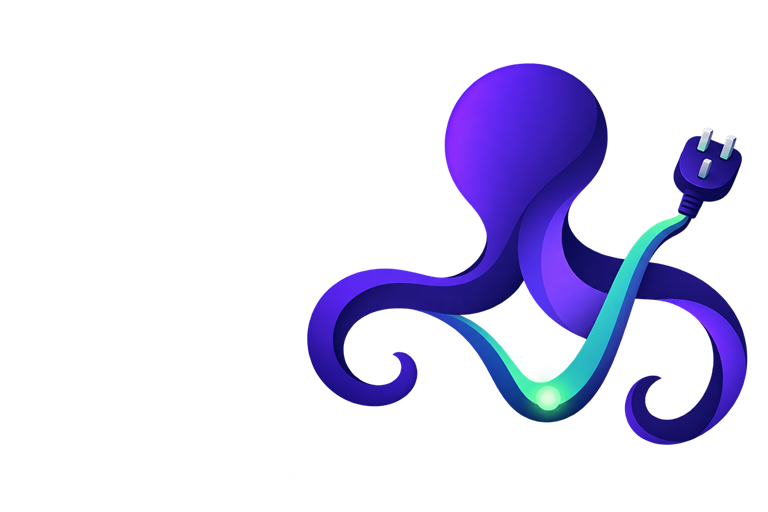
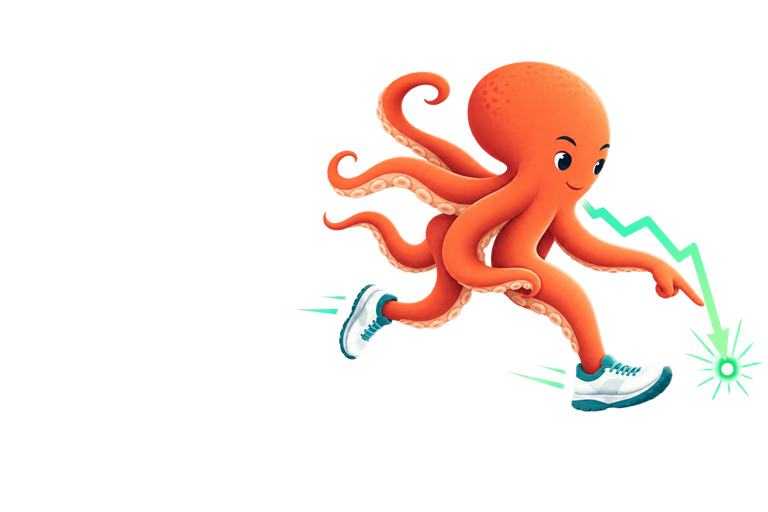
Clarify published prices and refresh mascot
Treat normal through-23:00 coverage as ready in the interface while preserving strict day completeness, and replace the abstract hero with a distinct trainer-wearing octopus.

Changed region(s): [[0.375, 0.0938, 1.0, 0.875]]

diff --git a/apps/web/src/components/PricesView.tsx b/apps/web/src/components/PricesView.tsx
@@ -56,11 +56,20 @@ export function PricesView({ overview, now, display }: PricesViewProps): JSX.Ele
     visibleConfirmedPeriods,
     windowMinutes,
   );
-  const tomorrowStatus = overview.tomorrow.complete
+  const tomorrowStatus = overview.tomorrow.ready
     ? "Tomorrow's prices are ready"
     : overview.tomorrow.periods.length > 0
-      ? "Tomorrow's prices are updating"
+      ? "Tomorrow's prices are arriving"
       : 'Prices usually update around 4pm';
+  const tomorrowCoverage = overview.tomorrow.ready
+    ? overview.tomorrow.complete
+      ? 'Full day'
+      : overview.tomorrow.coveredUntil
+        ? `To ${clock(overview.tomorrow.coveredUntil, display)}`
+        : 'Ready'
+    : overview.tomorrow.periods.length > 0
+      ? `${overview.tomorrow.periods.length} prices`
+      : 'Waiting';
 
   function toggleTool(tool: PriceTool): void {
     const nextTool = openTool === tool ? null : tool;
@@ -79,10 +88,8 @@ export function PricesView({ overview, now, display }: PricesViewProps): JSX.Ele
       <div className="card price-tools-card">
         <div className="price-availability">
           <span>{tomorrowStatus}</span>
-          <span className={`pill ${overview.tomorrow.complete ? 'ready' : 'waiting'}`}>
-            {overview.tomorrow.complete
-              ? 'Complete'
-              : `${overview.tomorrow.periods.length}/${overview.tomorrow.expectedPeriodCount}`}
+          <span className={`pill ${overview.tomorrow.ready ? 'ready' : 'waiting'}`}>
+            {tomorrowCoverage}
           </span>
         </div>
         <div className="price-tool-buttons" aria-label="Optional price tools">

diff --git a/apps/server/src/api/handler.ts b/apps/server/src/api/handler.ts
@@ -35,7 +35,6 @@ import {
   startOfLondonDay,
   userSettingsInputSchema,
   webPushSubscriptionSchema,
-  expectedPeriodCount,
   DEFAULT_ALERT_RULES,
   type PricingDate,
   type User,
@@ -137,12 +136,15 @@ function requiresSecureCookie(config: AppConfig, origin: string): boolean {
 /** Shapes one pricing day the way every price endpoint returns it. */
 async function describeDay(priceService: PriceService, date: PricingDate, tariffCode: string) {
   const periods = await priceService.storedDay(date, tariffCode);
+  const coverage = describeDayCoverage(periods, date);
   return {
     date,
     periods,
     summary: summariseDay(periods, date),
-    complete: isDayComplete(periods, date),
-    expectedPeriodCount: expectedPeriodCount(date),
+    complete: coverage.complete,
+    ready: coverage.publishable,
+    coveredUntil: coverage.coveredUntil,
+    expectedPeriodCount: coverage.expectedPeriodCount,
   };
 }
 

diff --git a/apps/server/test/integration.test.ts b/apps/server/test/integration.test.ts
@@ -129,6 +129,13 @@ describe('the real Octopus publication shape', () => {
       expect(result.complete).toBe(false);
       expect(result.publishable).toBe(true);
       expect(result.missingCount).toBe(2);
+
+      const response = await context.inject({ method: 'GET', url: '/api/overview' });
+      expect(response.json().tomorrow).toMatchObject({
+        complete: false,
+        ready: true,
+        coveredUntil: '2026-01-16T23:00:00.000Z',
+      });
     } finally {
       await context.built.close();
     }
@@ -562,6 +569,8 @@ describe('HTTP API', () => {
     expect(body.periods).toHaveLength(48);
     expect(body.summary.minPence).toBe(-2);
     expect(body.complete).toBe(true);
+    expect(body.ready).toBe(true);
+    expect(body.coveredUntil).toBe('2026-01-17T00:00:00.000Z');
   });
 
   it('rejects a malformed date', async () => {

diff --git a/apps/web/src/api.ts b/apps/web/src/api.ts
@@ -38,6 +38,10 @@ export interface DayPayload {
   periods: PricePeriod[];
   summary: DaySummary | null;
   complete: boolean;
+  /** Enough contiguous prices from local midnight have arrived for planning. */
+  ready: boolean;
+  /** Exclusive local-day coverage boundary, expressed as an ISO UTC instant. */
+  coveredUntil: string | null;
   expectedPeriodCount: number;
 }
 

diff --git a/AI_HANDOFF.md b/AI_HANDOFF.md
@@ -47,7 +47,7 @@ normal-price periods are not important unless they change that decision.
 ## Current State
 
 - **Current version:** 0.1.0 (MVP feature-complete, not yet released)
-- **Current branch:** `main`
+- **Current branch:** `codex/trainer-octopus-status`
 - **Source control:** `main` includes reviewed application/workflow revision
   `fb6b289`; the current handoff-only follow-up records its deployment and
   changes no runtime files. The mandatory Claude CLI workflow remains active.
@@ -110,6 +110,18 @@ GitHub remote or a real device:
 
 ## Latest Agent Work — 2026-08-30
 
+- **Trainer mascot and useful publication status (review-ready):** Alan rejected
+  the purple abstract hero and the perpetual-looking `46/48` status. The
+  current-price card now uses a transparent coral octopus in white/teal running
+  trainers, pointing towards a separate mint falling-price line. API day
+  payloads expose the existing coverage model as `ready` and `coveredUntil`
+  alongside strict completeness. The price-tools card therefore treats the
+  normal contiguous release through about 23:00 as ready and shows `To 23:00`
+  rather than `46/48`; genuinely partial releases say that prices are arriving.
+  `npm run verify` passes with 353 tests across 17 files. Claude's mandatory
+  read-only review found no material issues and returned `REVIEW: PASS`; the
+  handoff omission it noted has been addressed here. This branch still needs
+  committing, merging to `main`, CI, automatic deployment and a live check.
 - **Standing deployment authorisation:** Alan asked Codex to deploy the current
   brand redesign and, in future, to deploy automatically whenever reviewed
   application work is pushed to `main`. `AGENTS.md` now makes deployment plus

diff --git a/CHANGELOG.md b/CHANGELOG.md
@@ -40,11 +40,14 @@ Octopus publication cycles.
 ### Changed
 
 - **The identity now has a real place in the app.** The tiny Price Pulse mark
-  has left the header. A new octopus advisor illustration fills the live-price
-  card instead: its tentacle traces a cheap-price valley into a charging plug,
-  making the brand visible without pushing the half-hour price table down or
-  obscuring the current price. The same branded card works in light and dark
-  themes, while the header is now a cleaner text wordmark.
+  has left the header. A coral octopus advisor in running trainers fills the
+  live-price card and follows a separate mint low-price trail, making the brand
+  visible without pushing the half-hour price table down or obscuring the
+  current price. The same branded card works in light and dark themes, while
+  the header is now a cleaner text wordmark.
+- **Publication progress now speaks in useful terms.** The normal Octopus
+  release through about 23:00 is shown as ready for planning, with its actual
+  coverage time, instead of exposing the misleading `46/48` technical count.
 - **OctoPrice is now OctoAgile Advisor.** The new Price Pulse identity turns
   five half-hour price bars into a forward arrow, with a reproducible SVG/PWA
   icon set, refreshed violet-and-mint branding, the shorter launcher name
